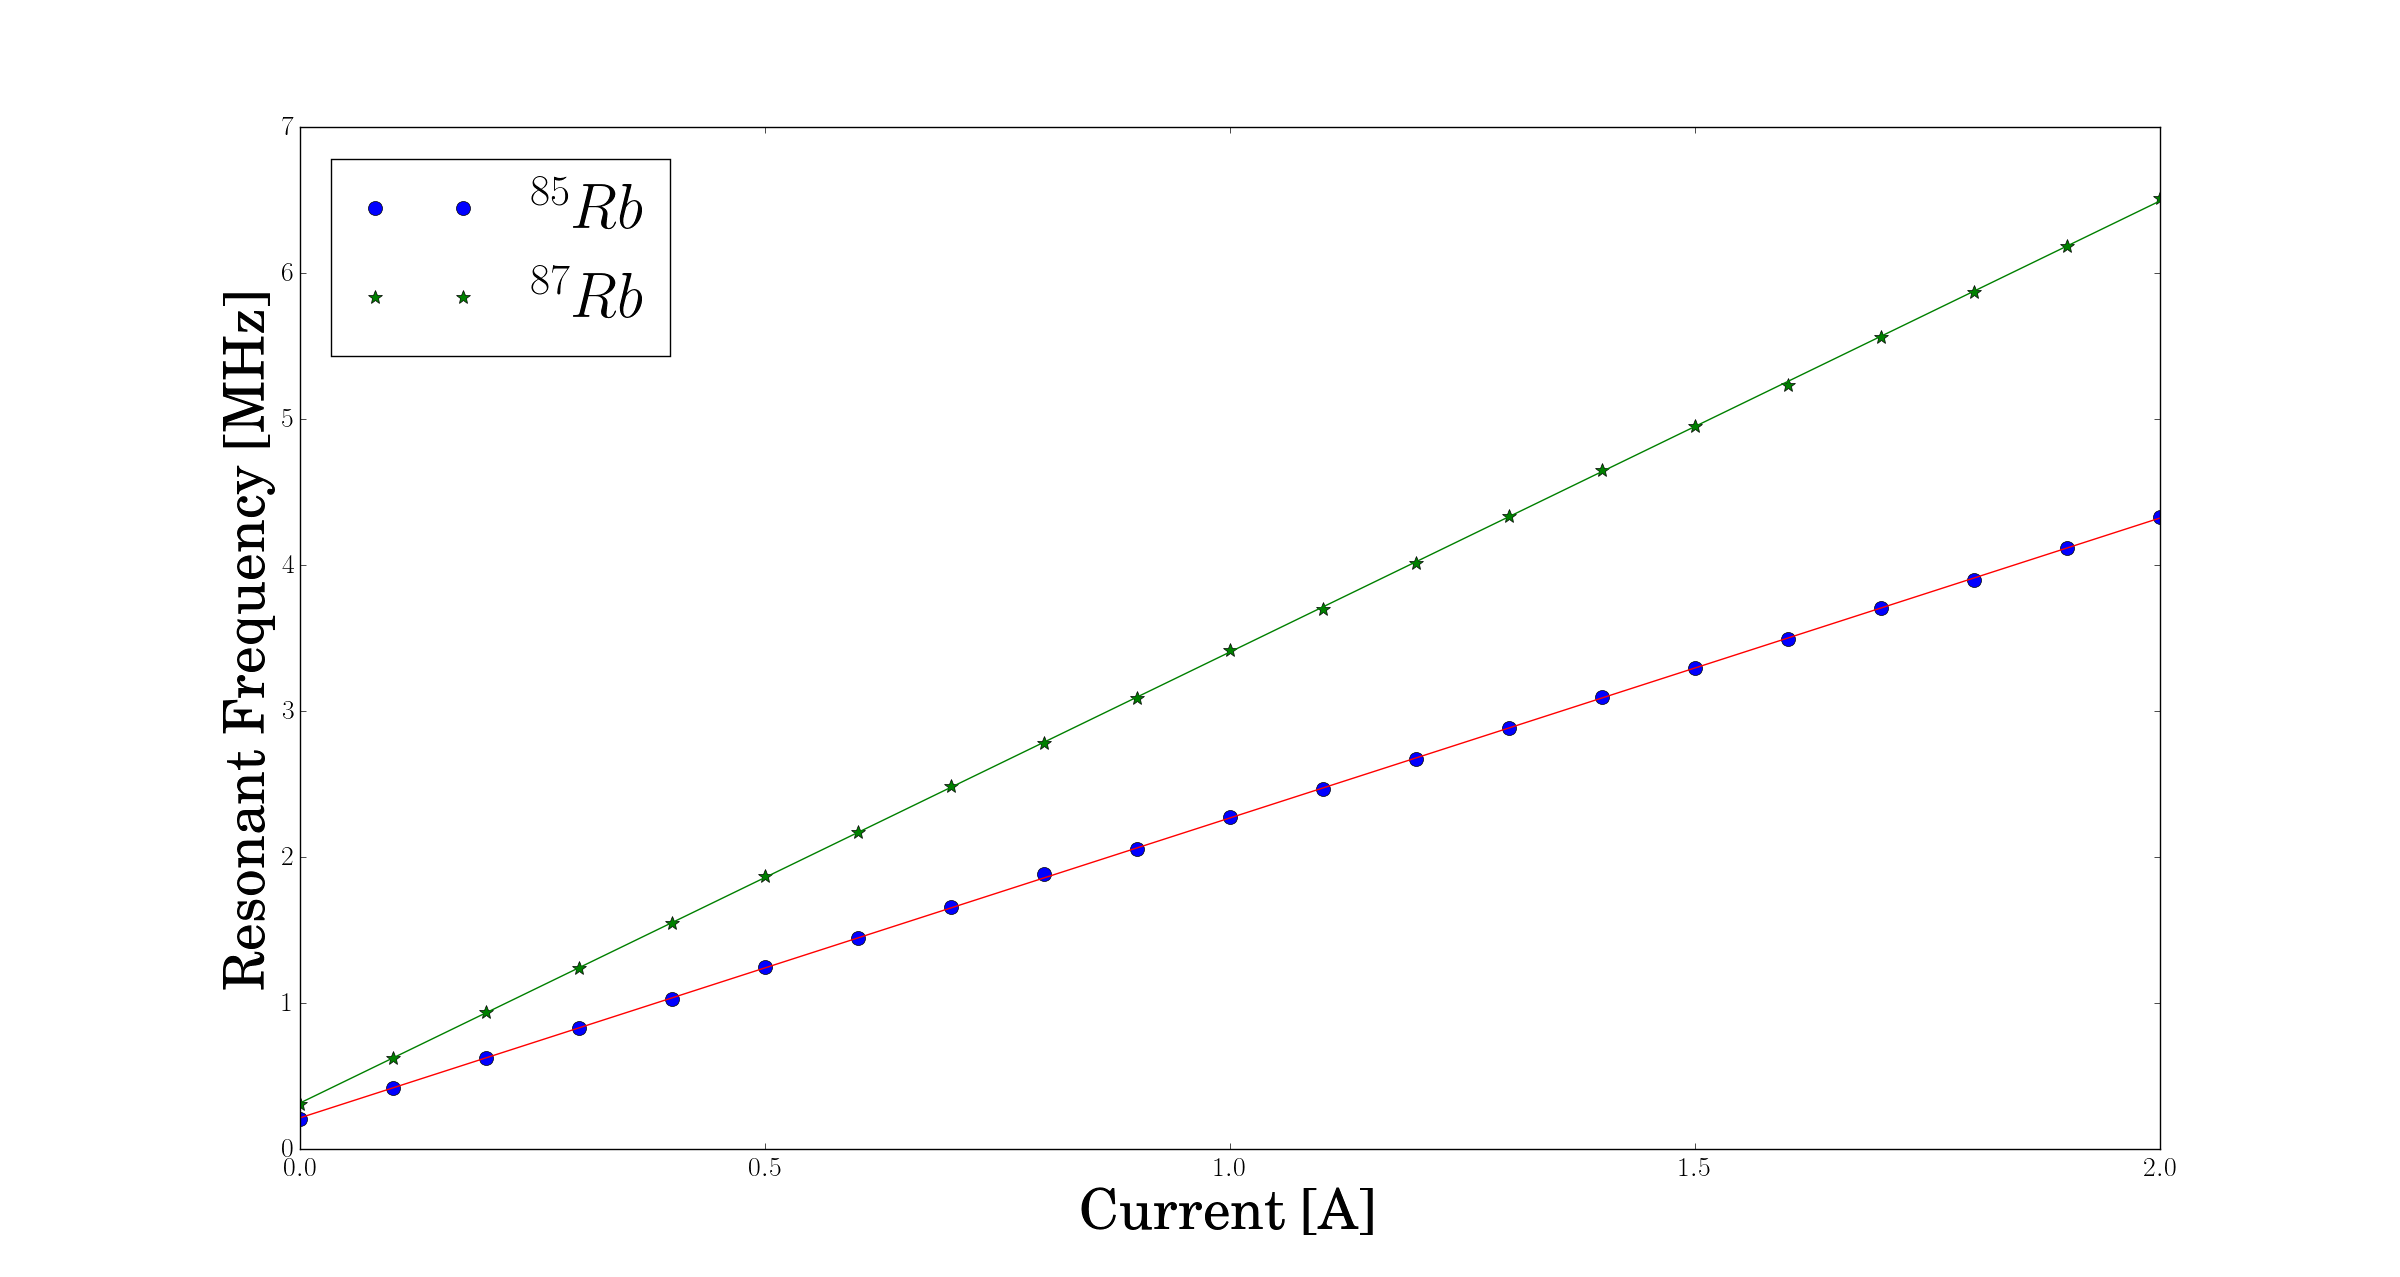
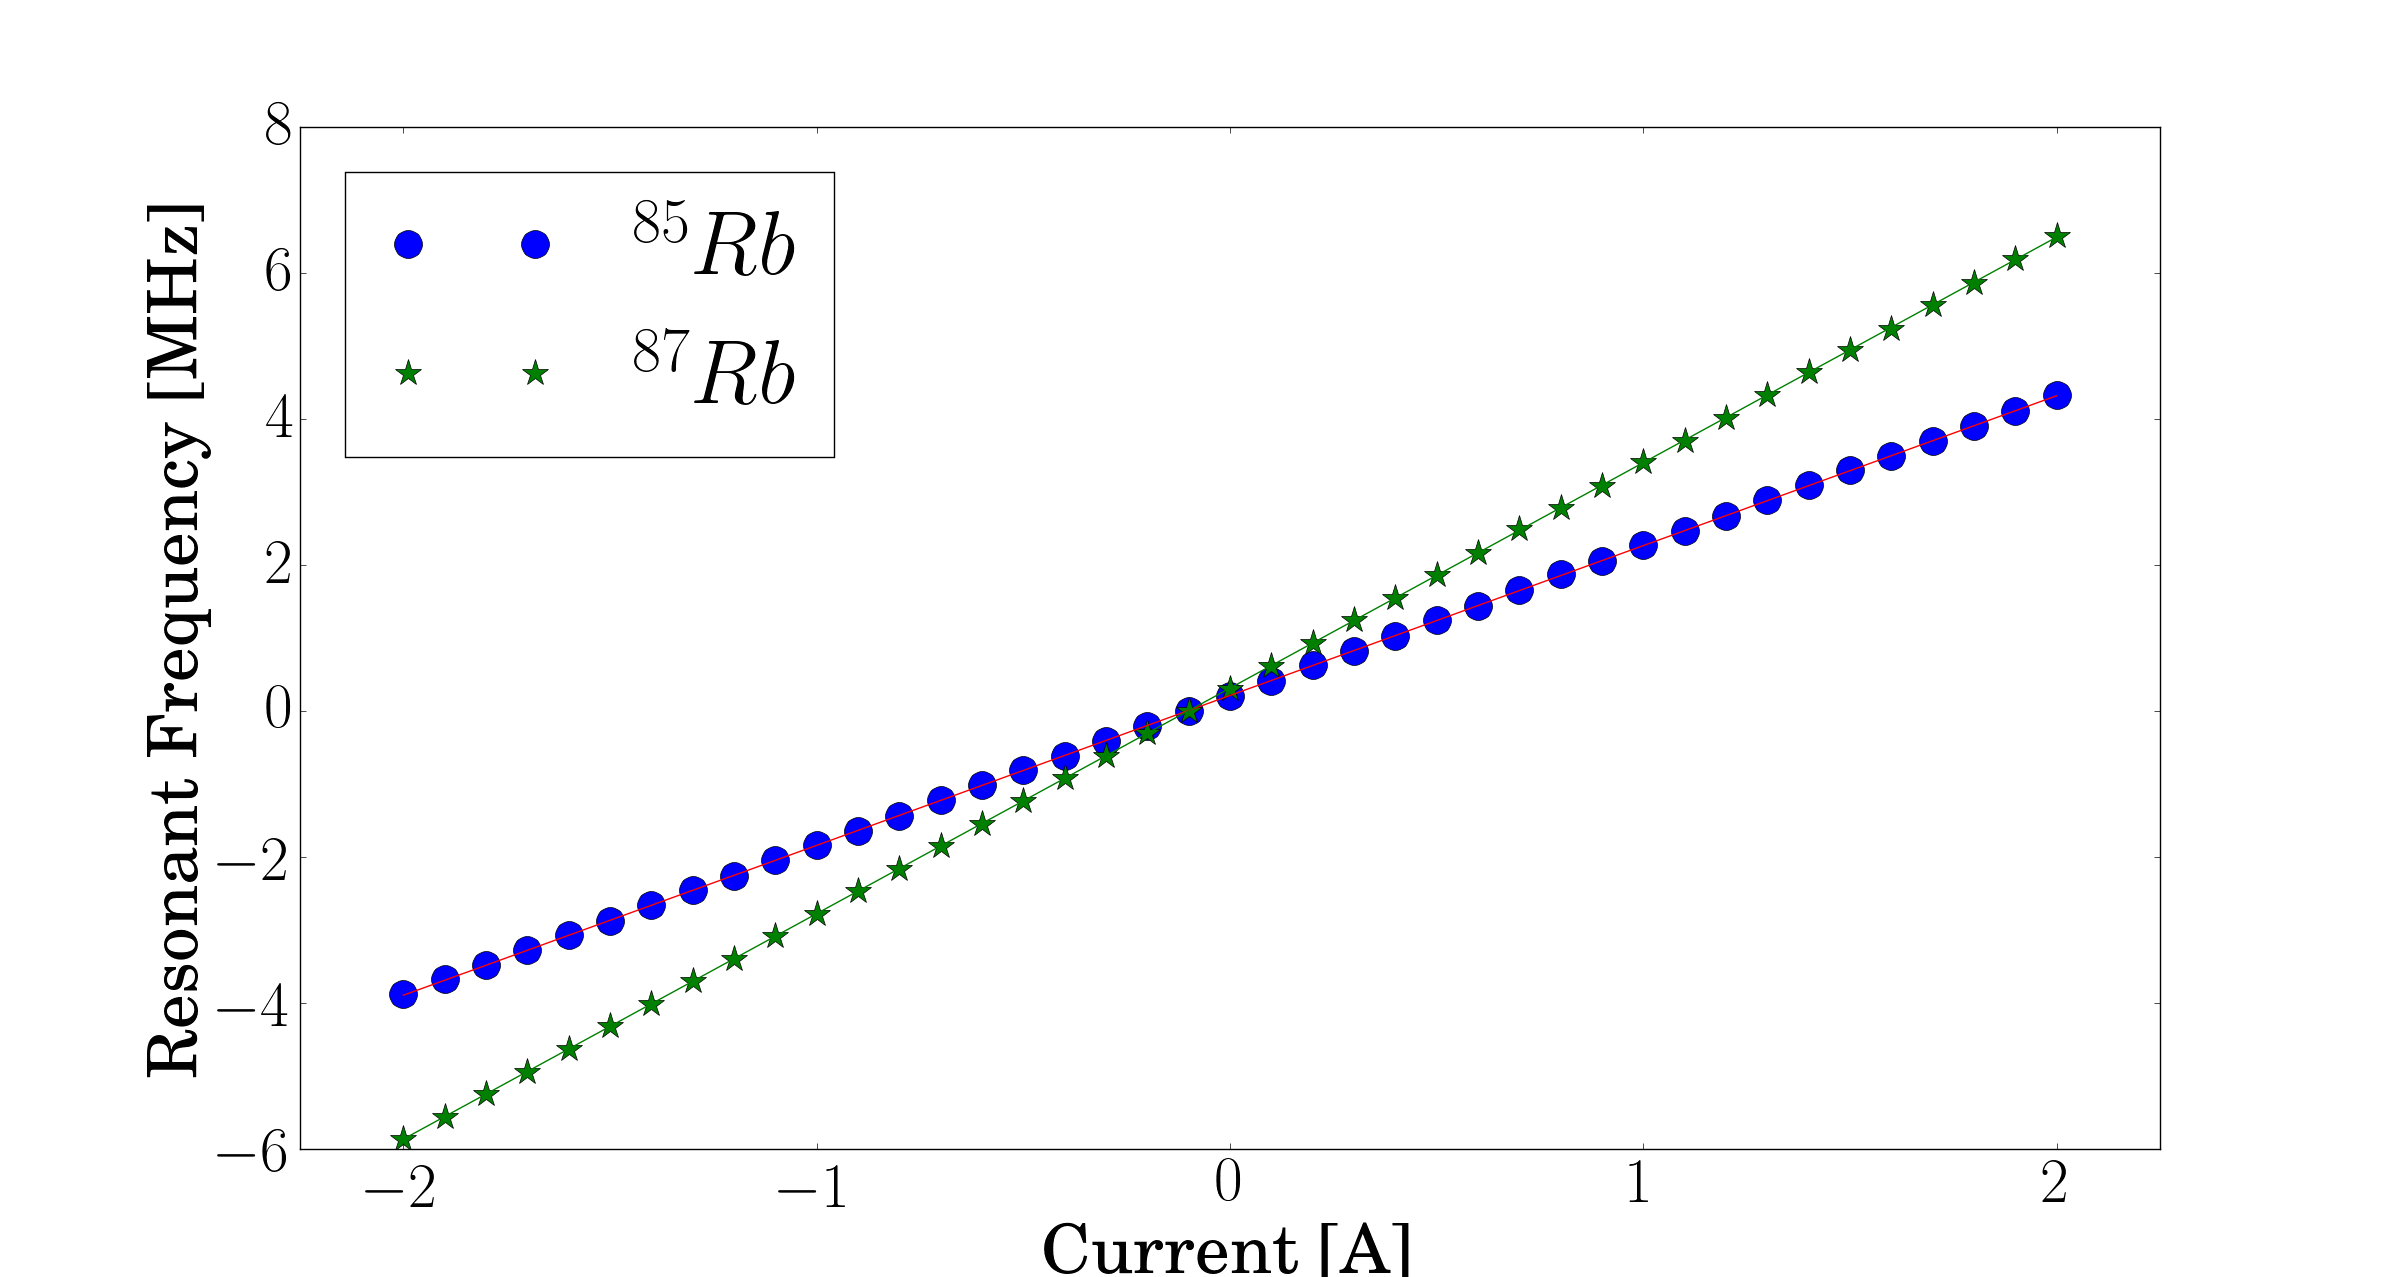
final

diff --git a/optpump/optpump.py b/optpump/optpump.py
@@ -20,15 +20,16 @@ m2, yint2=np.polyfit(current, freq_2,1)
 best1 = current*m1+yint1
 best2=current*m2 +yint2
 def data():
-	plt.plot(current, freq_1,'o',ms=10,label=r'$^{85}Rb$')
-	plt.plot(current, freq_2,'*', ms=10,label=r'$^{87}Rb$')
+	plt.plot(current, freq_1,'o',ms=20,label=r'$^{85}Rb$')
+	plt.plot(current, freq_2,'*', ms=20,label=r'$^{87}Rb$')
 	plt.plot(current, best1,'r')#, label='bestfit1')
 	plt.plot(current, best2,'g')#, label='bestfit2')
-	plt.legend(loc=2, fontsize=45)
-	plt.tick_params(axis='both', which='major', labelsize=20)
+	plt.legend(loc=2, fontsize=65)
+	plt.tick_params(axis='both', which='major', labelsize=45)
 	plt.tick_params(axis='both', which='minor', labelsize=15)
-	plt.xlabel('Current [A]',size=40)
-	plt.ylabel('Resonant Frequency [MHz]', size=40)
+	plt.xlabel('Current [A]',size=50)
+	plt.ylabel('Resonant Frequency [MHz]', size=50)
+	plt.xlim([-2.25,2.25])
 
 	plt.show()
 def resid():
@@ -47,6 +48,18 @@ def nucspin(m):
 	return i
 def earthfield(b,i):
 	return b*(2*i+1)/(2.799)
+def earthfield2(nuplus, numinus, I):
+	return  1./2 *( 2*I+1)*(nuplus-numinus)/27.99
+	
 print nucspin(m1)
 print nucspin(m2)
-print (earthfield(yint1, 5./2) + earthfield(yint2, 3./2))/2.
+earth1 =  earthfield(yint1, 5./2) 
+earth2 = earthfield(yint2, 3./2)
+earthf1 = earthfield2(freq_1[21:],freq_1[0:20], 5./2)
+earthf2 = earthfield2(freq_2[21:],freq_2[0:20], 3./2)
+print np.mean([earthf1,earthf2])
+print np.std([earthf1, earthf2],ddof=2)
+print np.std([earthf1, earthf2],ddof=2)/np.sqrt(40)
+# forty measurements, 2 degrees of freedom
+# mean of each
+
